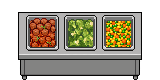
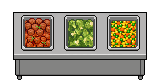
慶功宴膳檯換新圖：加寬盤子間隔、素材庫改讀 PNG、膳檯位置下移
- 三台慶功宴膳檯換新圖（加寬盤子間隔，比較不會裝到隔壁的菜）
- 素材庫裡這三台原本存的是圖片內容本身，改成直接讀 images/餐廳/慶功宴/ 的 PNG 檔，之後換圖會直接生效
- 盤子位置照新圖設定（js/meal.js 的 MEAL.pansByTile，平常時段的打飯台不變）
- 基地地圖：慶功宴膳檯往下移

Changed region(s): [[0.0625, 0.15, 0.375, 1.0], [0.625, 0.15, 0.9375, 1.0]]

diff --git a/data/tiles.js b/data/tiles.js
@@ -5850,7 +5850,7 @@ const SHARED_TILES = [
     "id": "tile_mw5yx368",
     "name": "banquet-buffet-01",
     "role": "floor",
[1 lines of base64/hex data omitted]
+    "file": "images/餐廳/慶功宴/banquet-buffet-01.png",
     "w": 4,
     "h": 2
   },
@@ -5867,7 +5867,7 @@ const SHARED_TILES = [
     "id": "tile_mw60u20k",
     "name": "banquet-buffet-02",
     "role": "floor",
[1 lines of base64/hex data omitted]
+    "file": "images/餐廳/慶功宴/banquet-buffet-02.png",
     "w": 4,
     "h": 2
   },
@@ -5875,7 +5875,7 @@ const SHARED_TILES = [
     "id": "tile_mw628w22",
     "name": "banquet-buffet-03",
     "role": "floor",
[1 lines of base64/hex data omitted]
+    "file": "images/餐廳/慶功宴/banquet-buffet-03.png",
     "w": 4,
     "h": 2
   }

diff --git a/js/meal.js b/js/meal.js
@@ -12,6 +12,12 @@ const MEAL = {
   buffetTiles: ['tile_restaurant_buffet_counter_01', 'tile_restaurant_buffet_counter_02', 'tile_musg7iyr', 'tile_mw5yx368', 'tile_mw60u20k', 'tile_mw628w22'],   // 打飯台（每台三盤菜）
   pans: [[32, 22, 26, 24], [71, 22, 26, 24], [110, 22, 26, 24]],                          // 三盤菜在打飯台圖片上的位置（圖 160×80：左、上、寬、高）
   panImg: [160, 80],
+  // 換過圖、盤子位置不一樣的打飯台（圖片像素：左、上、寬、高；同樣三盤由左到右）；沒寫的用上面的 pans
+  pansByTile: {
+    tile_mw5yx368: [[25, 20, 25, 26], [68, 20, 25, 26], [111, 20, 25, 26]],   // 慶功宴 banquet-buffet-01（2026-11-07 加寬盤子間隔）
+    tile_mw60u20k: [[25, 20, 25, 26], [68, 20, 25, 26], [111, 20, 25, 26]],   // 慶功宴 banquet-buffet-02
+    tile_mw628w22: [[25, 20, 25, 26], [68, 20, 25, 26], [111, 20, 25, 26]],   // 慶功宴 banquet-buffet-03
+  },
   panReachX: 24,       // 站在盤子左右多遠以內才打得到這盤（px）：兩盤相隔 39～44，這個距離剛好接得起來又不會碰到更遠的
   wasteTiles: ['tile_restaurant_waste_sorting_station'],                                  // 回收區
   trashTiles: ['tile_restaurant_trash_bin_small'],                                        // 垃圾桶：裝錯菜可以倒掉，餐盤留在手上
@@ -94,10 +100,11 @@ function mealNear(ids, x, y, reach = 30) {
   return best;
 }
 // 打飯台上第 k 盤菜：在地圖上的中心、拿來畫的圖片範圍
+const mealPansOf = id => MEAL.pansByTile[id] || MEAL.pans;   // 這台打飯台三盤菜在圖上的位置
 function panOf(r, k) {
-  const [px, py, pw, ph] = MEAL.pans[k], sx = r.w / MEAL.panImg[0], sy = r.h / MEAL.panImg[1];
+  const rect = mealPansOf(r.s.id)[k], [px, py, pw, ph] = rect, sx = r.w / MEAL.panImg[0], sy = r.h / MEAL.panImg[1];
   const u = (px + pw / 2) * sx;
-  return { x: r.x0 + (r.s.fx ? r.w - u : u), y: r.y0 + (py + ph / 2) * sy, food: { file: r.t.file, rect: MEAL.pans[k] }, key: r.s.id + '#' + k };
+  return { x: r.x0 + (r.s.fx ? r.w - u : u), y: r.y0 + (py + ph / 2) * sy, food: { file: r.t.file, rect }, key: r.s.id + '#' + k };
 }
 // 站在 (x, y) 打得到的菜裡，正對面最近的一盤；都打不到就回傳 null。一律看人站的位置，不管面向哪邊，人站在哪盤前面就是打哪盤
 // 打飯台的圖左右有重疊，所以直接比每一盤，不能先挑「哪一台」，不然站在三色豆前面會裝到隔壁台的牛排

diff --git a/塔防原型.html b/塔防原型.html
@@ -393,7 +393,7 @@
   <script src="js/ground-items.js?v=groundcare2-20261106"></script>   <!-- 背包裡的東西放在地上、撿回來；嚮導撿、球球叼急救包和杏仁水 -->
   <script src="js/food.js?v=eat-20261106"></script>   <!-- 怪物掉的食物：火烤、吃了補血＋buff -->
   <script src="js/cooking.js?v=party2-20261107"></script>   <!-- 烹飪：廚房工作台的爐灶把生食煮熟 -->
-  <script src="js/meal.js?v=party10-20261107"></script>   <!-- 餐廳吃飯：拿餐盤、打飯、坐下吃、回收（NPC 也會） -->
+  <script src="js/meal.js?v=party11-20261107"></script>   <!-- 餐廳吃飯：拿餐盤、打飯、坐下吃、回收（NPC 也會） -->
   <script src="js/meal-invite.js?v=liftspot-20261104"></script>   <!-- 邀請隊員一起去餐廳吃飯：跟著溫特、吃完走回原本的地方 -->
   <script src="js/base-follow.js?v=rooms2f-20261104"></script>   <!-- 雷德在基地裡跟著溫特換地圖（不進溫特辦公室、別人寢室） -->
   <script src="js/ball-poses.js?v=ballsit-20261102"></script>
@@ -448,7 +448,7 @@
   <script src="js/result-screen.js?v=result-20261018"></script>   <!-- 結算畫面版面：按鈕放進彈窗、一頁看完 -->
   <script src="js/practice.js?v=moth-20261029"></script>   <!-- B-1 訓練室：練習模式（塔納、沙包） -->
   <script src="data/party.js?v=party12-20261107"></script>   <!-- 慶功宴設定：菜單、時間、台詞 -->
-  <script src="js/party.js?v=party20-20261107"></script>   <!-- 慶功宴：食堂出餐小遊戲 -->
+  <script src="js/party.js?v=party21-20261107"></script>   <!-- 慶功宴：食堂出餐小遊戲 -->
   <script src="js/defeat-aid.js?v=defeataid-20261102"></script>   <!-- 連續失利補助：同一區連續兩次全滅，撥款 $10,000 -->
   <script src="js/channel-actions.js?v=movecancel-20261025"></script>   <!-- 疏導、急救、包紮：站定跑進度條 -->
   <script src="js/grab.js?v=vinemates-20261105"></script>   <!-- 右鍵按住抓隊友／應變中心的 NPC，拖到別處放下 -->

diff --git a/data/base-maps.js b/data/base-maps.js
@@ -9045,8 +9045,8 @@ const BASE_MAPS = [
         "c": 10,
         "r": 14,
         "layer": "object6",
-        "ox": 24,
-        "oy": 16
+        "ox": 14,
+        "oy": 30
       },
       {
         "id": "tile_restaurant_kitchen_workstation_clear",
@@ -9097,15 +9097,15 @@ const BASE_MAPS = [
         "c": 17,
         "r": 14,
         "layer": "object6",
-        "ox": 6,
-        "oy": 16
+        "ox": 12,
+        "oy": 30
       },
       {
         "id": "tile_restaurant_tray_stack",
         "c": 17,
         "r": 13,
         "layer": "object6",
-        "oy": 20,
+        "oy": 34,
         "ox": 30
       },
       {
@@ -9113,7 +9113,8 @@ const BASE_MAPS = [
         "c": 19,
         "r": 14,
         "layer": "object6",
-        "oy": 18
+        "oy": 32,
+        "ox": 0
       },
       {
         "id": "tile_restaurant_storage_cabinet",
@@ -9180,8 +9181,8 @@ const BASE_MAPS = [
         "c": 7,
         "r": 14,
         "layer": "object6",
-        "ox": 22,
-        "oy": 16
+        "ox": 2,
+        "oy": 30
       },
       {
         "id": "tile_mw628w22",
@@ -9189,7 +9190,7 @@ const BASE_MAPS = [
         "r": 14,
         "layer": "object6",
         "ox": 26,
-        "oy": 16
+        "oy": 30
       }
     ],
     "solid": [

diff --git a/椅子編輯器.html b/椅子編輯器.html
@@ -88,7 +88,7 @@
     </section>
   </div>
   <script src="data/asset-moves.js?v=init-20261106"></script><script src="js/asset-moves.js?v=init-20261106"></script>   <!-- 素材搬家：瀏覽器暫存裡的舊路徑換成新路徑（必須最先載入） -->
-  <script src="data/tiles.js?v=dishes2-20261107"></script>       <!-- 素材庫（地圖編輯器、基地編輯器共用） -->
+  <script src="data/tiles.js?v=buffetpng-20261107"></script>       <!-- 素材庫（地圖編輯器、基地編輯器共用） -->
   <script src="data/maps.js?v=basefix-20261107"></script>        <!-- 戰鬥地圖 -->
   <script src="data/base-maps.js?v=partylayer-20261107"></script>   <!-- 基地地圖 -->
   <script src="js/draft-sync.js?v=sync-20261021"></script>   <!-- 編輯器暫存和專案檔自動合併（多人協作不掉資料） -->

diff --git a/js/party.js b/js/party.js
@@ -201,7 +201,7 @@ function partyPanFoodByKey(key) {
   const [id, k] = key.split('#'), r = (party.stations.buffet || []).find(o => o.s.id === id);
   if (r) return partyPanFood(r, +k);
   const t = mapTileById(id);   // 這台打飯台沒擺在地圖上：圖還是從素材庫截，訂單才有圖
-  return { key, file: t ? t.file : '', rect: t ? MEAL.pans[+k] : [0, 0, 1, 1] };
+  return { key, file: t ? t.file : '', rect: t ? mealPansOf(id)[+k] : [0, 0, 1, 1] };
 }
 // 這一餐的滿意度（0～100）：從這個人的最高分開始，等點餐太久、等上菜太久、送錯都會扣分（數字在 data/party.js 的 mood、natures）
 const partyPart = (t, grace, patience) => Math.max(0, Math.min(1, (t - grace) / patience));

diff --git a/劇情地圖編輯器.html b/劇情地圖編輯器.html
@@ -198,7 +198,7 @@
   <script src="js/config.js"></script>       <!-- 格線與座標 -->
   <script src="data/monsters.js?v=gourd-speed-20261028"></script>  <!-- 怪物種類與數值 -->
   <script src="js/monster-data.js?v=gourd-20261028"></script>
-  <script src="data/tiles.js?v=dishes2-20261107"></script>        <!-- 素材庫（兩個編輯器共用） -->
+  <script src="data/tiles.js?v=buffetpng-20261107"></script>        <!-- 素材庫（兩個編輯器共用） -->
   <script src="data/story-maps.js?v=basefix-20261107"></script>        <!-- 劇情地圖資料（STORY_MAPS） -->
   <script src="data/supplies.js?v=sortiebal-20261106"></script>
   <script src="data/items.js?v=devotionimg-20261106"></script>

diff --git a/基地編輯器.html b/基地編輯器.html
@@ -230,7 +230,7 @@
   <script src="js/config.js"></script>       <!-- 格線與座標 -->
   <script src="data/monsters.js?v=gourd-speed-20261028"></script>  <!-- 怪物種類與數值 -->
   <script src="js/monster-data.js?v=gourd-20261028"></script>
-  <script src="data/tiles.js?v=dishes2-20261107"></script>        <!-- 素材庫（兩個編輯器共用） -->
+  <script src="data/tiles.js?v=buffetpng-20261107"></script>        <!-- 素材庫（兩個編輯器共用） -->
   <script src="data/base-maps.js?v=partylayer-20261107"></script>   <!-- 基地地圖資料（BASE_MAPS） -->
   <script src="data/supplies.js?v=sortiebal-20261106"></script>
   <script src="data/items.js?v=devotionimg-20261106"></script>

diff --git a/地圖編輯器.html b/地圖編輯器.html
@@ -204,7 +204,7 @@
   <script src="js/config.js"></script>       <!-- 格線與座標 -->
   <script src="data/monsters.js?v=gourd-speed-20261028"></script>  <!-- 怪物種類與數值 -->
   <script src="js/monster-data.js?v=gourd-20261028"></script>
-  <script src="data/tiles.js?v=dishes2-20261107"></script>        <!-- 素材庫（兩個編輯器共用） -->
+  <script src="data/tiles.js?v=buffetpng-20261107"></script>        <!-- 素材庫（兩個編輯器共用） -->
   <script src="data/maps.js?v=basefix-20261107"></script>        <!-- 戰鬥地圖資料（BATTLE_MAPS） -->
   <script src="data/supplies.js?v=sortiebal-20261106"></script>
   <script src="data/items.js?v=devotionimg-20261106"></script>

diff --git a/閒聊編輯器.html b/閒聊編輯器.html
@@ -77,7 +77,7 @@
   </div>
   <script src="data/asset-moves.js?v=init-20261106"></script><script src="js/asset-moves.js?v=init-20261106"></script>   <!-- 素材搬家：瀏覽器暫存裡的舊路徑換成新路徑（必須最先載入） -->
   <script src="js/draft-sync.js?v=sync-20261021"></script>
-  <script src="data/tiles.js?v=dishes2-20261107"></script>
+  <script src="data/tiles.js?v=buffetpng-20261107"></script>
   <script src="data/base-maps.js?v=partylayer-20261107"></script>
   <script src="data/characters.js?v=colynparry-20261023"></script>
   <script src="data/npc-locations.js?v=floornames-20261021"></script>

diff --git a/劇情編輯器.html b/劇情編輯器.html
@@ -103,7 +103,7 @@
   </div>
   <script src="data/asset-moves.js?v=init-20261106"></script><script src="js/asset-moves.js?v=init-20261106"></script>   <!-- 素材搬家：瀏覽器暫存裡的舊路徑換成新路徑（必須最先載入） -->
   <script src="js/draft-sync.js?v=sync-20261021"></script>
-  <script src="data/tiles.js?v=dishes2-20261107"></script>
+  <script src="data/tiles.js?v=buffetpng-20261107"></script>
   <script src="data/chairs.js?v=red02-20261026"></script>
   <script src="data/story-maps.js?v=basefix-20261107"></script>
   <script src="data/characters.js?v=guideability-20261025"></script>

diff --git a/劇情編輯器（改）.html b/劇情編輯器（改）.html
@@ -249,7 +249,7 @@
 
   <script src="data/asset-moves.js?v=init-20261106"></script><script src="js/asset-moves.js?v=init-20261106"></script>   <!-- 素材搬家：瀏覽器暫存裡的舊路徑換成新路徑（必須最先載入） -->
   <script src="js/draft-sync.js?v=sync-20261021"></script>
-  <script src="data/tiles.js?v=dishes2-20261107"></script>
+  <script src="data/tiles.js?v=buffetpng-20261107"></script>
   <script src="data/story-maps.js?v=basefix-20261107"></script>
   <script src="data/characters.js?v=guideability-20261025"></script>
   <script src="data/costumes.js?v=money2-20261102"></script>
